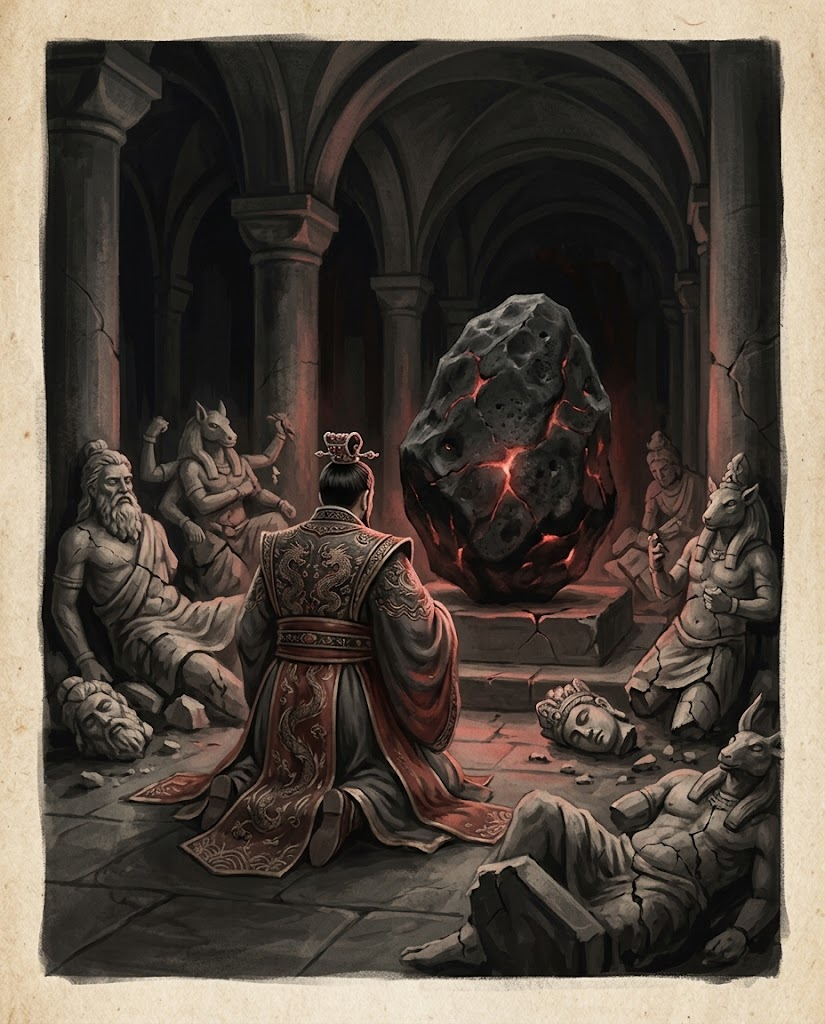
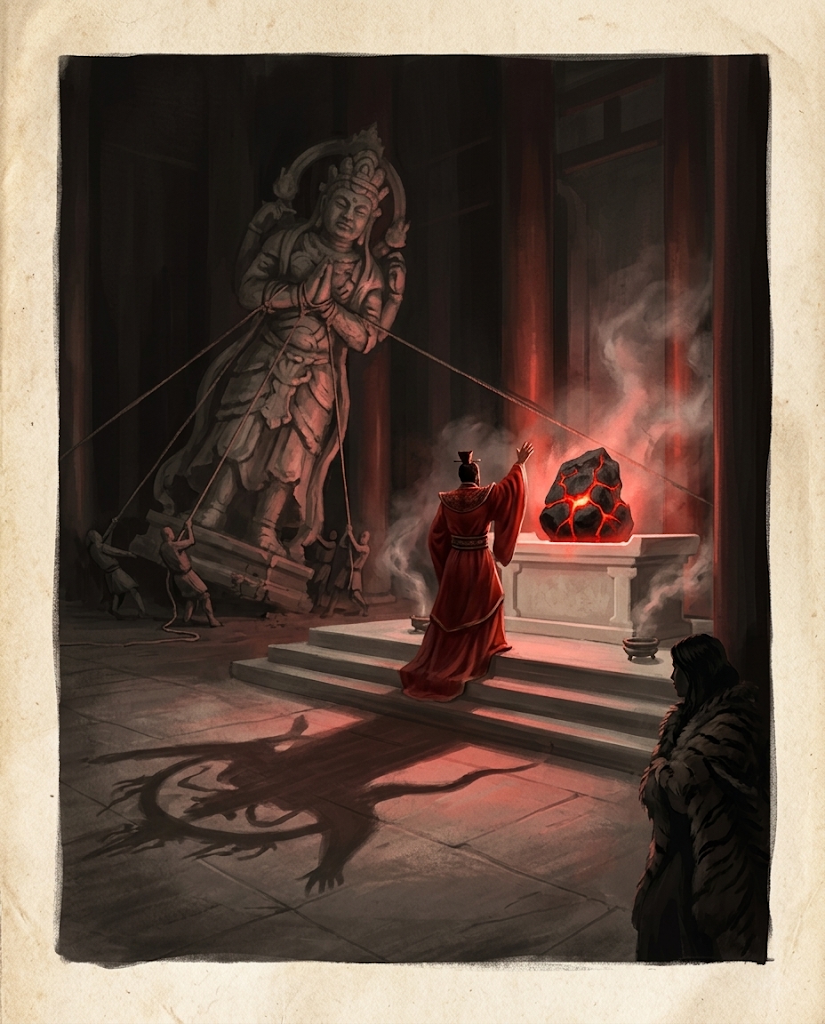
Neue Fassungen 4-E (zwei Varianten) und 5-B, alte nach images/alt
Claude-Session: https://claude.ai/code/session_01M43ABDvT1sVbzdBnq1737x

diff --git a/images/README.md b/images/README.md
@@ -17,9 +17,10 @@ Dateiname = Bild-ID aus der Bildliste im Drehbuch. Die Versionen hier kommen aus
 | 4-B | Yeen | ok |
 | 4-C | Seestein-Thron | ok |
 | 4-D | Der Hohe Turm auf schwarzem Stein | ok |
-| 4-E | Der Blutstein-Kaiser | wird neu gemacht |
+| 4-E | Der Blutstein-Kaiser: Sturz der Götter (zum Zitat Q4) | ok |
+| 4-E-b | Der Blutstein-Kaiser: der Stein als Ikone (für 04-8) | ok |
 | 5-A | Die Mauer | ok |
-| 5-B | Valyria | wird neu gemacht |
+| 5-B | Valyria vom Meer aus | ok |
 | 5-C | Valyrischer Stahl | ok |
 | 5-D | Drachenschädel | ok |
 | 5-E | Riesen | ok |
@@ -41,4 +42,4 @@ Dateiname = Bild-ID aus der Bildliste im Drehbuch. Die Versionen hier kommen aus
 | 9-B | Der Hügel des Sternensehers | ok |
 | T-1 | Thumbnail: der zerbrochene Mond | ok, für YouTube braucht es mind. 1280×720 |
 
-Fehlt noch: neue Fassungen von 4-E und 5-B (optional, die jetzigen sind brauchbar).
+Alle Bilder sind da. Ältere Fassungen liegen in `alt/`.
